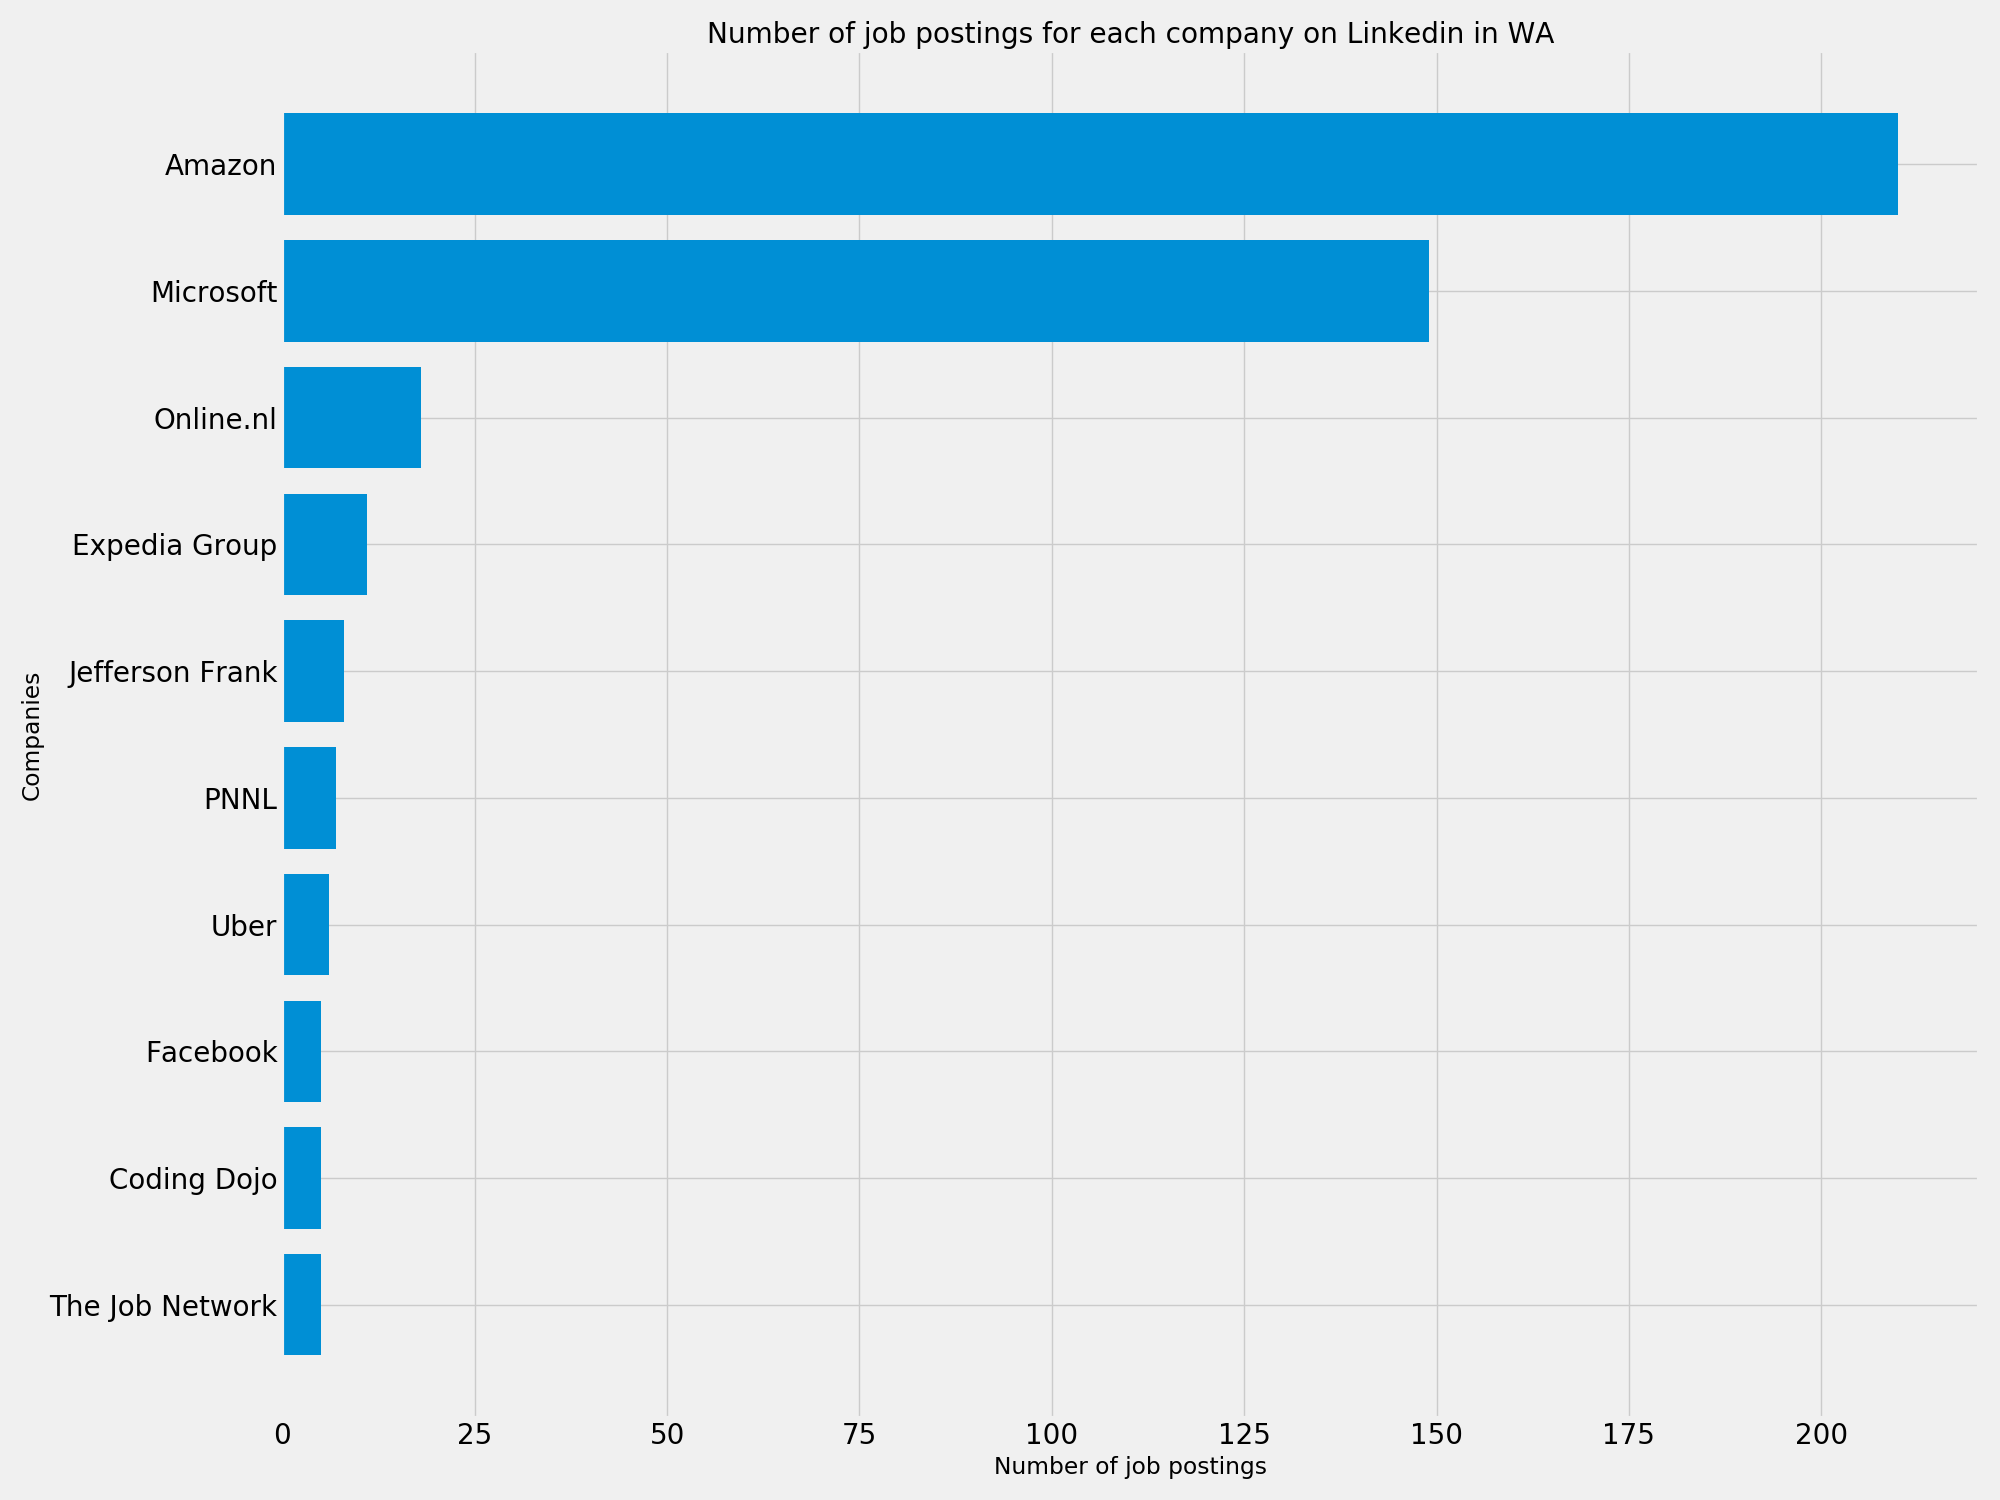
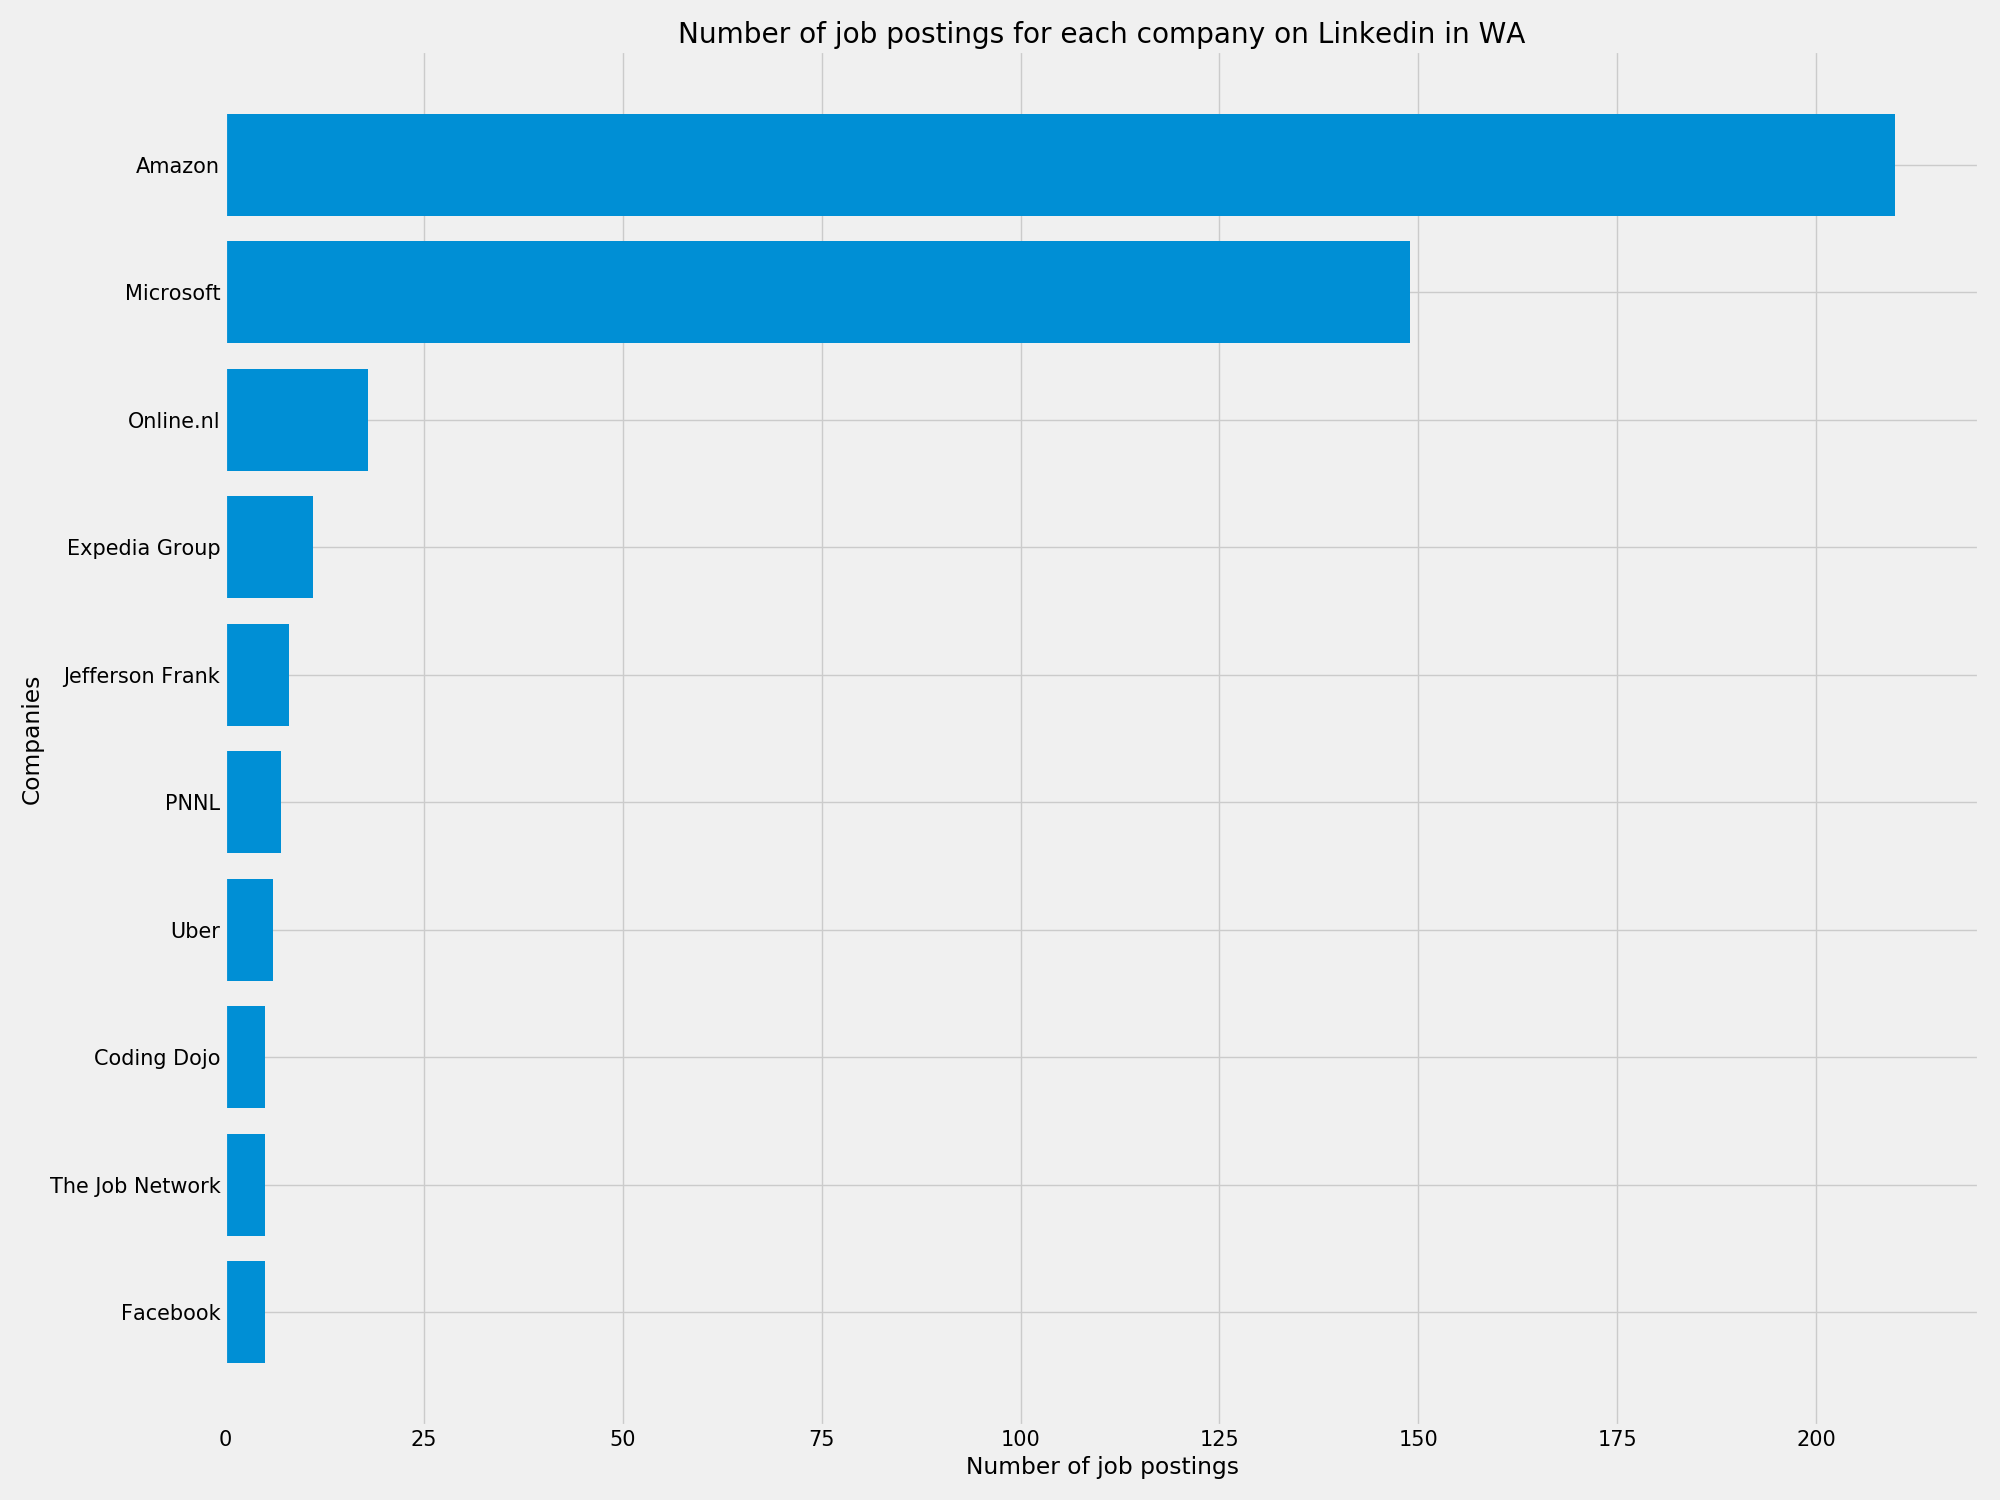
Messing with last graphs

diff --git a/src/graphing_eda.py b/src/graphing_eda.py
@@ -126,7 +126,7 @@ def graph_top10_companies(state_id):
     ax.set_xlabel('Number of job postings')
     ax.set_ylabel('Companies')
     ax.set_title(f'Number of job postings for each company on Linkedin in {state_id}')
-    ax.tick_params(labelsize = 20)
+    ax.tick_params(labelsize = 15)
     
     plt.tight_layout()
     plt.savefig(f'../imgs/linkedin_top_companies_num_job_postings_per_{state_id}.png')
